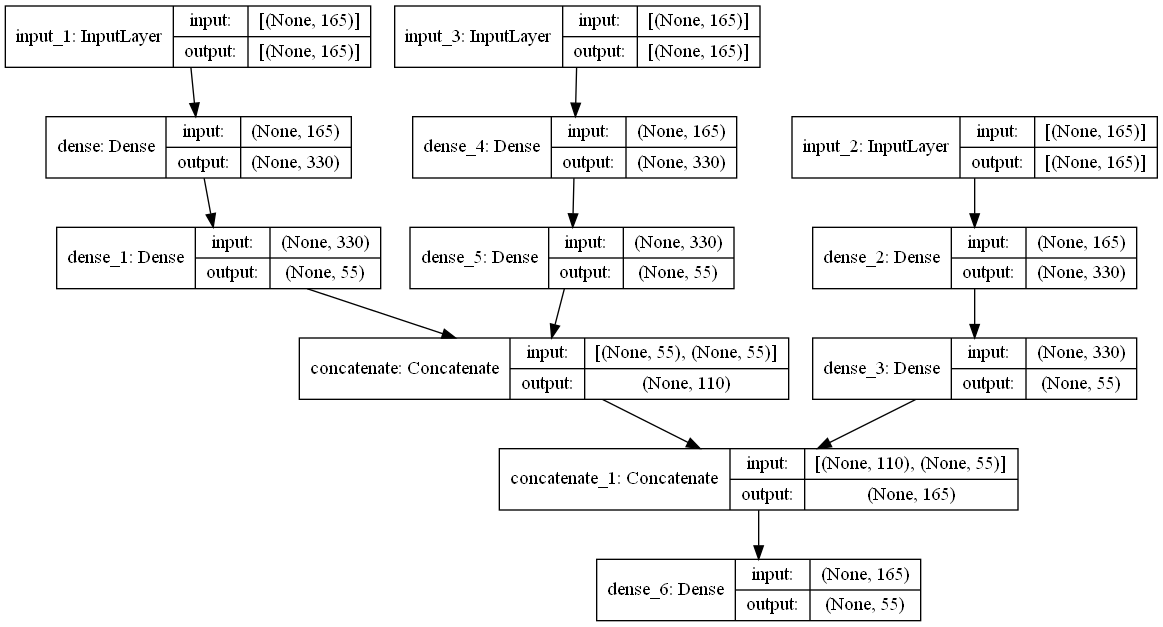
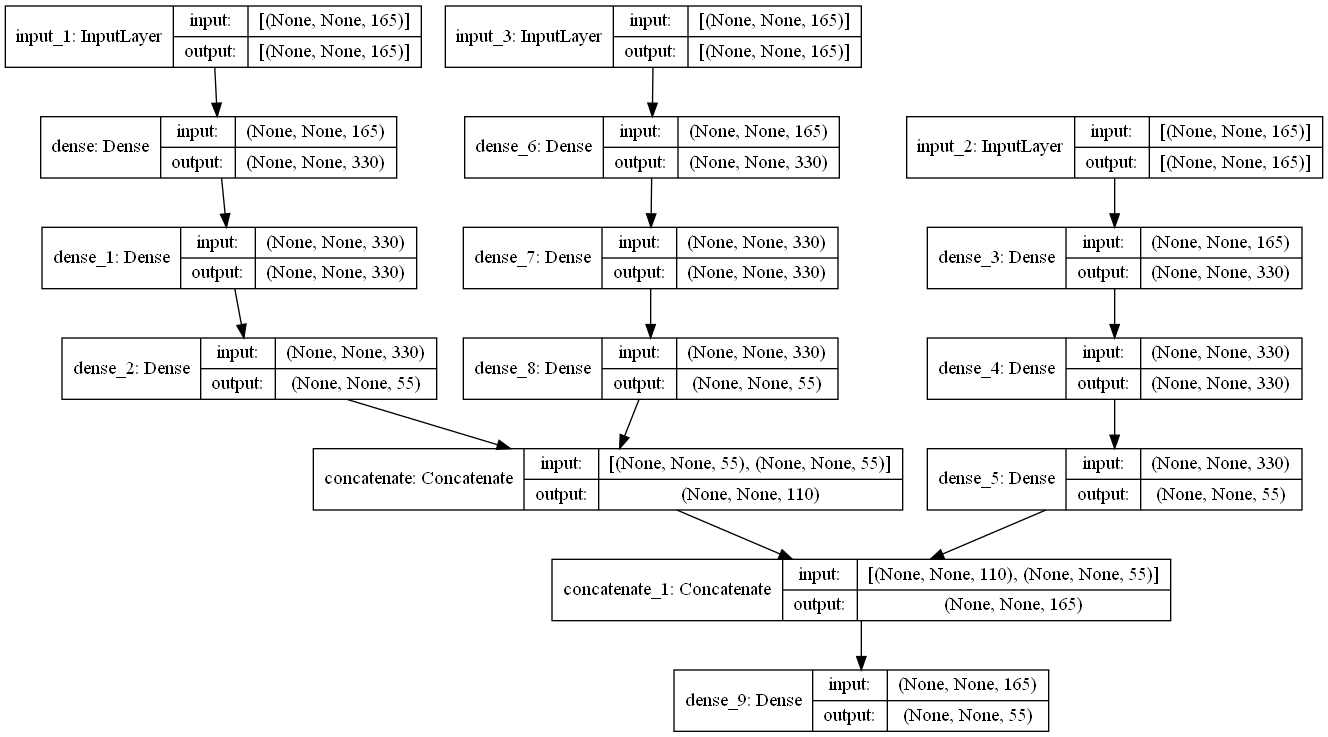
better first try in sup3 - example with 2 cases

Changed region(s): [[0.0, 0.0, 1.0, 1.0]]

diff --git a/sup3/generating_data.py b/sup3/generating_data.py
@@ -3,7 +3,7 @@ import itertools
 def create_all_available_hours(min_hour, max_hour, days, how_long):
     available_data = []
     for d in days:
-        for h in range(min_hour, max_hour, how_long):
+        for h in range(min_hour, max_hour):
             available_data.append([d, h, h + how_long])
     return available_data
 
@@ -18,9 +18,10 @@ def create_finite_amount_of_data(min_hour, max_hour, days, how_long, max_depth =
         data_from_iteration = list(itertools.combinations(available_data, i))
         print(len(data_from_iteration))
         for tup_data in data_from_iteration:
-            all_data.append(tup_data[0])
-            all_data.append(tup_data[1])
-            all_data.append(tup_data[2])
+            all_data.append([])
+            for three in tup_data:
+                for num in three:
+                    all_data[-1].append(num)
         data_from_iteration = None
     # small possibilities
     for i in range(2,max_depth):
@@ -28,9 +29,10 @@ def create_finite_amount_of_data(min_hour, max_hour, days, how_long, max_depth =
         data_from_iteration = list(itertools.combinations(available_data, i))
         print(len(data_from_iteration))
         for tup_data in data_from_iteration:
-            all_data.append(tup_data[0])
-            all_data.append(tup_data[1])
-            all_data.append(tup_data[2])
+            all_data.append([])
+            for three in tup_data:
+                for num in three:
+                    all_data[-1].append(num)
         data_from_iteration = None
     return all_data
 
@@ -65,3 +67,30 @@ def create_for_1_hour(max_depth = 5):
             row = row.replace("[", "").replace("]","").replace("(", "").replace(")", "")
             the_file.write(row)
             the_file.write("\n")
+
+def create_3input_available_hours(plan_hours, which_hour_taken, hours_to_delete=3):
+    """
+    It will randomly remove some hours, without hour which should be taken
+    :param plan_hours:
+    :param which_hour_taken:
+    :param hours_to_delete:
+    :return:
+    """
+    hour_to_take = [plan_hours[which_hour_taken * 3], plan_hours[which_hour_taken*3 + 1],
+                   plan_hours[which_hour_taken * 3 + 2]]
+    teachers_hours = []
+    room_hours = []
+    # ilosc zer przez 3?
+    # last av_hour
+    av_hours_in_plan = get_available_hours(plan_hours)
+
+    # wylosuj hours_to_delete razy godzinki do usuniecia, ale tak zeby zostala godzina do wybrania
+
+    # to trzeba zrobic dla teachera i dla rooma
+
+    # zwrocenie 3 list
+    return plan_hours, plan_hours, plan_hours
+
+def get_available_hours(av_hours):
+    # print(av_hours)
+    return 0

diff --git a/sup3/main.py b/sup3/main.py
@@ -2,38 +2,48 @@ import numpy as np
 from model import get_advance_model
 
 import random
-from generating_data import create_finite_amount_of_data, create_finite_amount_from_mid
+from generating_data import create_finite_amount_of_data, create_finite_amount_from_mid, \
+    create_3input_available_hours
 from prepare_data import prepare_x_train_data, prepare_y_train_data
+from helpers import swap_positions
 
 my_model = get_advance_model() 
 my_model.compile(optimizer='adam', loss='mean_squared_error', metrics=['accuracy'])
-x_learn = [
-    np.array([
-        2.0, 10.0, 12.0, 
-        2.0, 12.0, 14.0
-    ]),
-]
-x_learn2 = [
-    np.array([
-        1.0, 10.0, 12.0,
-        2.0, 12.0, 14.0,
-    ])
-]
-x_learn3 = [
-    np.array([
-        2.0, 10.0, 12.0,
-        3.0, 12.0, 14.0,
-    ])
-]
+
+# creating training data
+x_full_data1 = create_finite_amount_of_data(8, 19, [1, 2, 3, 4, 5], 2, 3)
+x_full_data1 += create_finite_amount_of_data(8, 19, [1, 2, 3, 4, 5], 1, 3)
+x_full_data1 = prepare_x_train_data(x_full_data1)
+x_training_data = x_full_data1
+
+# creating y-train data
+y_train = []
+for index in range(len(x_training_data)):
+    y_train.append([1])
+y_train = prepare_y_train_data(y_train)
+
+# mixing data
+for index in range(len(x_training_data)):
+    new_index = index % 54
+    swap_positions(x_training_data[index], 0, new_index * 3)
+    swap_positions(x_training_data[index], 1, new_index * 3 + 1)
+    swap_positions(x_training_data[index], 2, new_index * 3 + 2)
+    swap_positions(y_train[index], 0, new_index)
+
+# creating x_learn datas
+x_learn, x_learn2, x_learn3 = [], [], []
+for index in range(len(x_training_data)):
+    which_time_will_taken = y_train[index]
+    x1_sample, x2_sample, x3_sample = create_3input_available_hours(x_training_data[index], which_time_will_taken)
+    x_learn.append(x1_sample)
+    x_learn2.append(x2_sample)
+    x_learn3.append(x3_sample)
+
+my_model.fit([x_learn, x_learn2, x_learn3], y_train, epochs=6)
+my_model.save("model-first.h5")
 
 
-x_learn = prepare_x_train_data(x_learn)
-print(x_learn)
-x_learn2 = prepare_x_train_data(x_learn2)
-x_learn3 = prepare_x_train_data(x_learn3)
-y_learn = [
-    np.array([1])
-]
-
-
-my_model.fit([x_learn, x_learn2, x_learn3], prepare_y_train_data(y_learn), epochs=6)
+# creating test data
+# x_test_data = create_finite_amount_from_mid(8, 19, [1, 2, 3, 4, 5], 2, 5)
+# x_test_data += create_finite_amount_from_mid(8, 19, [1, 2, 3, 4, 5], 1, 4)
+# x_test_data = prepare_x_train_data(x_test_data)

diff --git a/sup3/first_try.py b/sup3/first_try.py
@@ -27,12 +27,28 @@ x_learn3 = [
 ]
 
 
-x_learn = prepare_x_train_data(x_learn)
-x_learn2 = prepare_x_train_data(x_learn2)
-x_learn3 = prepare_x_train_data(x_learn3)
-y_learn = [
-    np.array([1])
+x_learn = [
+    np.array(prepare_x_train_data(x_learn)),
+    np.array(prepare_x_train_data(x_learn)),
 ]
 
+x_learn2 = [
+    np.array(prepare_x_train_data(x_learn2)),
+    np.array(prepare_x_train_data(x_learn2)),
+]
+x_learn3 = [
+    np.array(prepare_x_train_data(x_learn3)),
+    np.array(prepare_x_train_data(x_learn3)),
+]
+y_learn = [
+    np.array([1]),
+    np.array([1])
+]
+y_learn = prepare_y_train_data(y_learn)
 
-my_model.fit([x_learn, x_learn2, x_learn3], prepare_y_train_data(y_learn), epochs=6)
+x_learn = np.array(x_learn).reshape(1, 2, 165)
+x_learn2 = np.array(x_learn2).reshape(1, 2, 165)
+x_learn3 = np.array(x_learn3).reshape(1, 2, 165)
+y_learn = np.array(y_learn).reshape(1, 2, 55)
+
+my_model.fit([x_learn, x_learn2, x_learn3], y_learn, epochs=6)

diff --git a/sup3/model.py b/sup3/model.py
@@ -5,9 +5,9 @@ from keras.models import Model, Sequential
 
 
 def get_advance_model():
-    input_plan = Input(shape=165)
-    input_room = Input(shape=165)
-    input_teacher = Input(shape=165)
+    input_plan = Input(shape=(None, 165))
+    input_room = Input(shape=(None, 165))
+    input_teacher = Input(shape=(None, 165))
 
     branch_plan = Sequential() 
     branch_plan.add(input_plan)

diff --git a/sup3/helpers.py b/sup3/helpers.py
@@ -1,0 +1,4 @@
+# Swap function 
+def swap_positions(l, pos1, pos2): 
+    l[pos1], l[pos2] = l[pos2], l[pos1] 
+    return l
